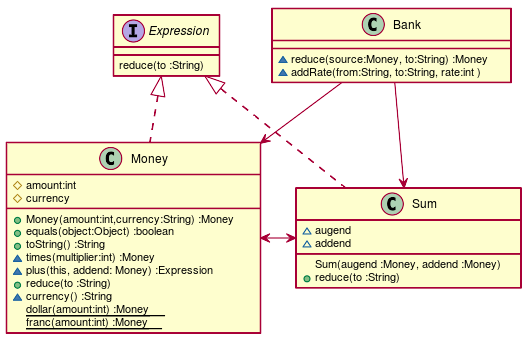
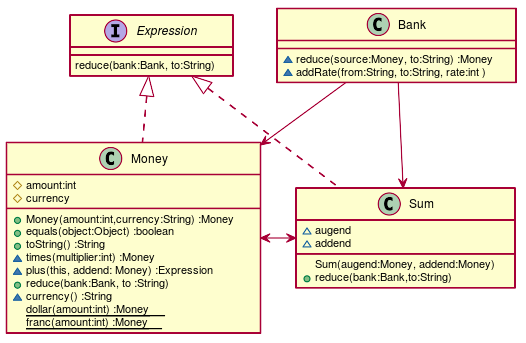
第１４章 学習用テストと回帰テスト Step6

diff --git a/src/main/java/tdd/money/Money.java b/src/main/java/tdd/money/Money.java
@@ -13,7 +13,7 @@ class Money implements Expression {
     Expression plus(Money addend) {
         return new Sum(this, addend);
     }
-    public Money reduce(String to) {
+    public Money reduce(Bank bank, String to) {
         int rate = (currency.equals("CHF") && to.equals("USD")) ? 2 : 1;
         return new Money(amount / rate, to);
     }

diff --git a/src/main/java/tdd/money/Sum.java b/src/main/java/tdd/money/Sum.java
@@ -8,7 +8,7 @@ class Sum implements Expression {
         this.addend = addend;
     }
 
-    public Money reduce(String to) {
+    public Money reduce(Bank bank, String to) {
         int amount = augend.amount + addend.amount;
         return new Money(amount, to);
     }

diff --git a/src/main/java/tdd/money/Expression.java b/src/main/java/tdd/money/Expression.java
@@ -1,5 +1,5 @@
 package tdd.money;
 
 interface Expression {
-    Money reduce(String to);
+    Money reduce(Bank bank, String to);
 }

diff --git a/docs/TDD.md b/docs/TDD.md
@@ -48,11 +48,11 @@
 ### クラス図
   
 
-![](./assets/0285dfa24ee25b18e00bb369b57da6820.png?0.06688028482648578)  
+![](./assets/0285dfa24ee25b18e00bb369b57da6820.png?0.08804182086212009)  
 ### シーケンス図
   
 
-![](./assets/0285dfa24ee25b18e00bb369b57da6821.png?0.4052048037897229)  
+![](./assets/0285dfa24ee25b18e00bb369b57da6821.png?0.9031900304665372)  
   
 ## コード
   
@@ -138,7 +138,7 @@ class Money implements Expression {
     Expression plus(Money addend) {
         return new Sum(this, addend);
     }
-    public Money reduce(String to) {
+    public Money reduce(Bank bank, String to) {
         int rate = (currency.equals("CHF") && to.equals("USD")) ? 2 : 1;
         return new Money(amount / rate, to);
     }
@@ -168,7 +168,7 @@ class Money implements Expression {
 package tdd.money;
   
 interface Expression {
-    Money reduce(String to);
+    Money reduce(Bank bank, String to);
 }
   
 ```  
@@ -200,7 +200,7 @@ class Sum implements Expression {
         this.addend = addend;
     }
   
-    public Money reduce(String to) {
+    public Money reduce(Bank bank, String to) {
         int amount = augend.amount + addend.amount;
         return new Money(amount, to);
     }

diff --git a/docs/src/TDD.md b/docs/src/TDD.md
@@ -50,7 +50,7 @@ markdown:
 ### クラス図
 ```puml
 interface Expression {
-  reduce(to :String)
+  reduce(bank:Bank, to:String)
 }
 class Money {
   #amount:int
@@ -60,7 +60,7 @@ class Money {
   +toString() :String
   ~times(multiplier:int) :Money
   ~plus(this, addend: Money) :Expression
-  +reduce(to :String)      
+  +reduce(bank:Bank, to :String)      
   ~currency() :String
   {static} dollar(amount:int) :Money
   {static} franc(amount:int) :Money  
@@ -72,8 +72,8 @@ class Bank {
 class Sum {
   ~augend
   ~addend
-  Sum(augend :Money, addend :Money)
-  +reduce(to :String)
+  Sum(augend:Money, addend:Money)
+  +reduce(bank:Bank,to:String)
 }
 Expression <|.. Money
 Expression <|.. Sum
